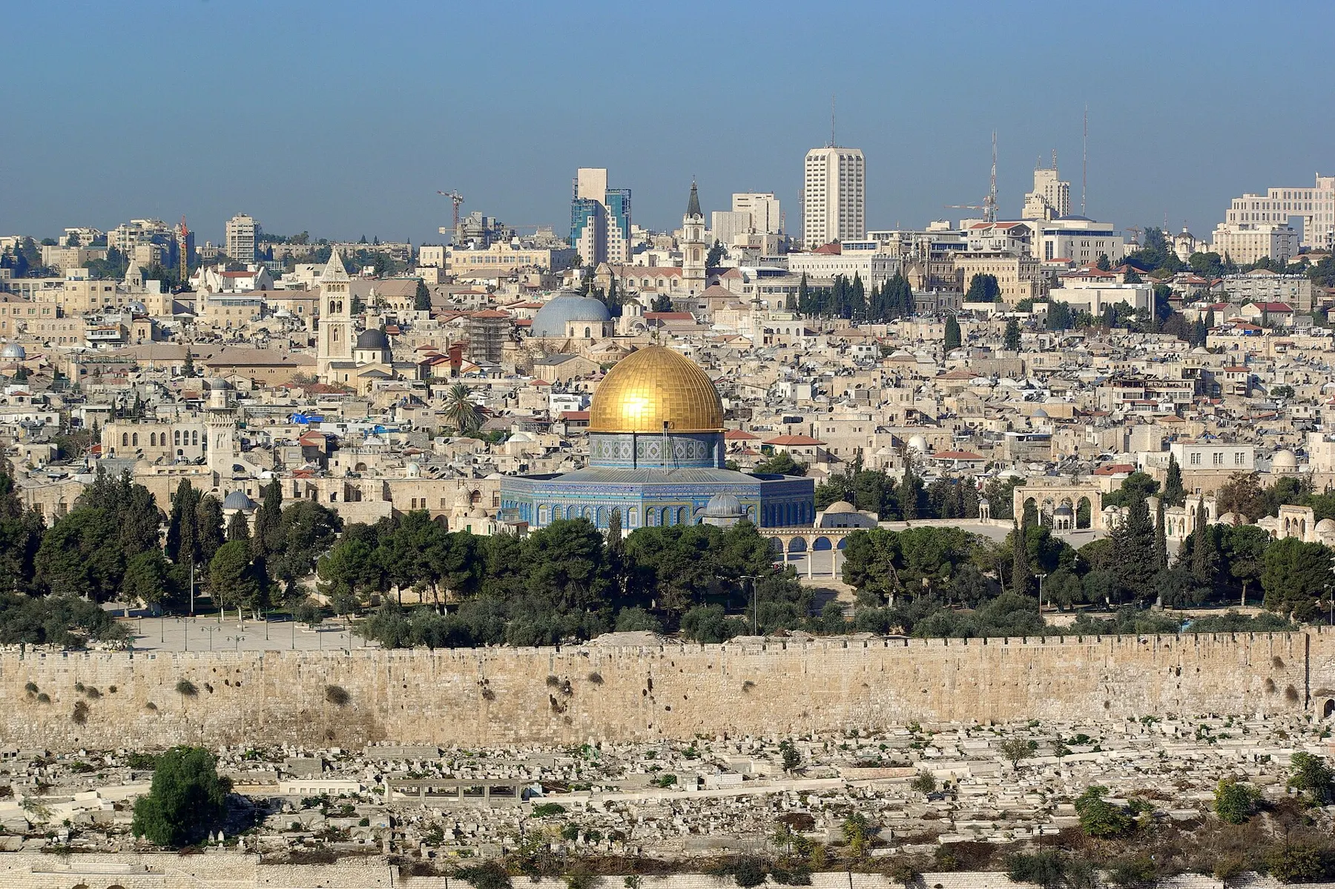
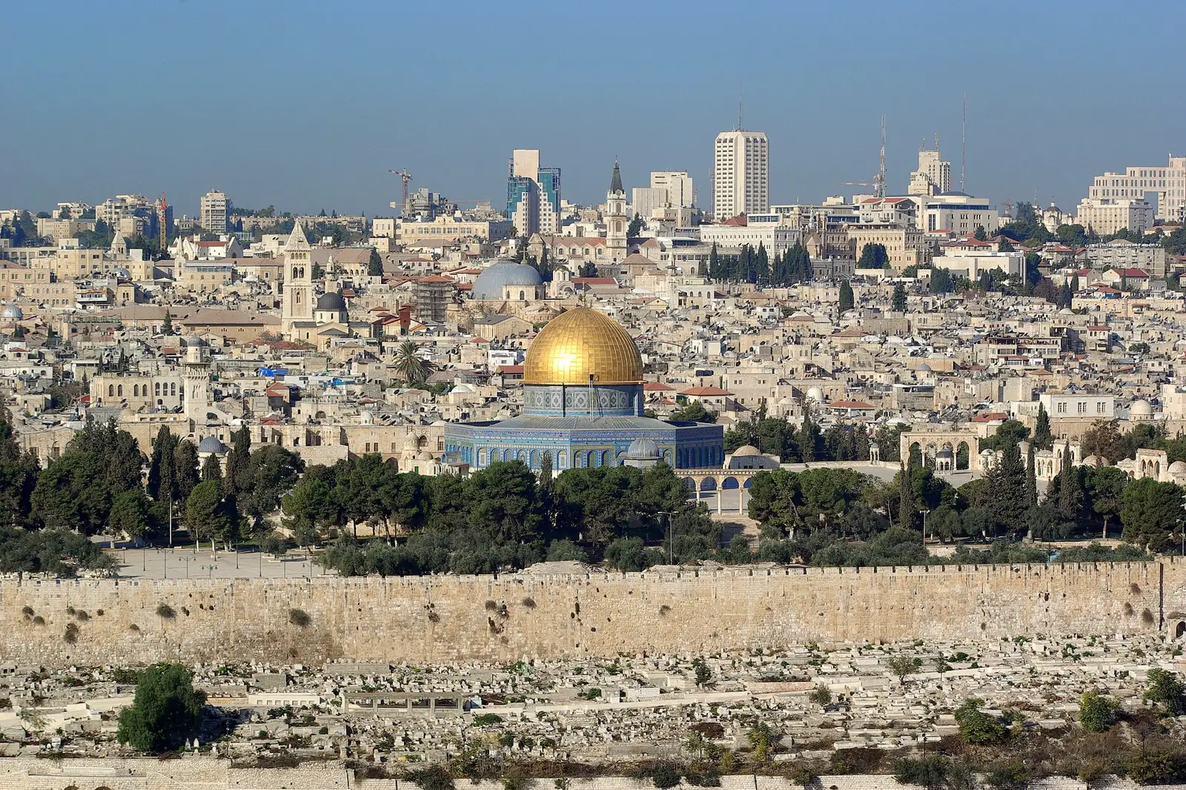
Changes

diff --git a/src/routes/index.tsx b/src/routes/index.tsx
@@ -129,7 +129,7 @@ function Home() {
     <main>
       <section className="relative mx-auto max-w-6xl px-4 pt-6">
         <div className="relative overflow-hidden rounded-3xl bg-navy">
-          <img src={hero} alt="Jerusalem's Old City and the Dome of the Rock seen from the Mount of Olives" width={1800} height={1200} fetchPriority="high" className="absolute inset-0 h-full w-full object-cover" />
+          <img src={hero} alt="Jerusalem's Old City and the Dome of the Rock seen from the Mount of Olives" width={1600} height={1066} fetchPriority="high" className="absolute inset-0 h-full w-full object-cover" />
           <div className="absolute inset-0 bg-gradient-to-r from-navy/90 via-navy/60 to-navy/10" aria-hidden />
           <div className="relative max-w-2xl px-6 py-16 text-navy-foreground md:px-12 md:py-24">
             <p className="text-xs font-semibold uppercase tracking-[0.14em] opacity-85">Plan your trip to Israel</p>

diff --git a/docs/BUILD_STATUS.md b/docs/BUILD_STATUS.md
@@ -61,7 +61,7 @@ Replaces the earlier three-page scope with a full tourism-portal structure. Stil
 
 ## Homepage visual redesign (16 Oct 2026)
 - Homepage rebuilt as photo-led portal: full-bleed Jerusalem hero with overlay CTAs and six-category quick nav; each of the six service sections has a large feature photo (text on gradient overlay + hub CTA) beside/above smaller photo cards that are full internal links; popular destinations are photo cards. Hover zoom disabled under prefers-reduced-motion. No provider data, prices, booking behaviour or routes changed.
-- Images stored in `src/assets/home/` as WebP (≤1200–1400px, ~100–230 KB each). Hero is the existing Jerusalem image (eager, high priority); all others lazy.
+- Images stored in `src/assets/home/` as WebP (≤1200–1400px, ~100–230 KB each). Hero is the Jerusalem Old City photo (eager, high priority); all others lazy.
 - Named-place photos (Wikimedia Commons, location verified by file title/visual review):
   - tel-aviv-coast — "PikiWiki Israel 58105 jaffa - old city.jpg", Ariel Manor, CC BY 2.5 (Tel Aviv shoreline seen from Jaffa)
   - tiberias-lake — "Tiberias from the Sea of Galilee (5809646279).jpg", Ian Scott, CC BY-SA 2.0
@@ -74,5 +74,5 @@ Replaces the earlier three-page scope with a full tourism-portal structure. Stil
   - caesarea-aqueduct — "125359 caesarea national park PikiWiki Israel.jpg", Zeev Stein, CC BY 2.5
   - caesarea-theatre — "Caesarea maritima BW 4.JPG", Berthold Werner, public domain
   - Generic category illustrations (AI-generated, alt text marks them illustrative, no named property/company): hotel-room, airport-pickup, guided-tour, road-trip.
-- Attribution implemented: collapsed "Photo credits" disclosure at the bottom of the homepage (data in `src/data/photoCredits.ts`). License URLs: CC BY 2.5 https://creativecommons.org/licenses/by/2.5/ ; CC BY 2.0 https://creativecommons.org/licenses/by/2.0/ ; CC BY-SA 2.0 https://creativecommons.org/licenses/by-sa/2.0/ ; CC BY-SA 4.0 https://creativecommons.org/licenses/by-sa/4.0/ . Source file pages: https://commons.wikimedia.org/wiki/File:PikiWiki_Israel_58105_jaffa_-_old_city.jpg ; https://commons.wikimedia.org/wiki/File:Tiberias_from_the_Sea_of_Galilee_(5809646279).jpg ; https://commons.wikimedia.org/wiki/File:Ben_Gurion_Airport_terminal_3_reception_hall.jpg ; https://commons.wikimedia.org/wiki/File:Palestine,_Bethlehem,_Church_of_the_Nativity_or_Birthplace_of_Jesus_(Square).jpg ; https://commons.wikimedia.org/wiki/File:Israel-2013-Aerial_13-Masada.jpg ; https://commons.wikimedia.org/wiki/File:Masada_Cable_Car_1438_(511094328).jpg ; https://commons.wikimedia.org/wiki/File:Israel_Aerial_Ropeway_Masada_BW_1.jpg ; https://commons.wikimedia.org/wiki/File:125342_caesarea_national_park_PikiWiki_Israel.jpg ; https://commons.wikimedia.org/wiki/File:125359_caesarea_national_park_PikiWiki_Israel.jpg ; https://commons.wikimedia.org/wiki/File:Caesarea_maritima_BW_4.JPG . All resized and converted to WebP. The former AI-created Jerusalem hero has been removed. Jerusalem hero and card variants (jerusalem-old-city-hero.webp 1800px, jerusalem-old-city.webp 900px) now use "Jerusalem Dome of the rock BW 14.JPG" by Berthold Werner, public domain, https://commons.wikimedia.org/wiki/File:Jerusalem_Dome_of_the_rock_BW_14.JPG (Commons metadata checked 16 Oct 2026). The accommodation feature image is now an AI-generated generic hotel room (hotel-room.webp) that replaces the rooftop-pool illustration; it shows no skyline or landmark.
+- Attribution implemented: collapsed "Photo credits" disclosure at the bottom of the homepage (data in `src/data/photoCredits.ts`). License URLs: CC BY 2.5 https://creativecommons.org/licenses/by/2.5/ ; CC BY 2.0 https://creativecommons.org/licenses/by/2.0/ ; CC BY-SA 2.0 https://creativecommons.org/licenses/by-sa/2.0/ ; CC BY-SA 4.0 https://creativecommons.org/licenses/by-sa/4.0/ . Source file pages: https://commons.wikimedia.org/wiki/File:PikiWiki_Israel_58105_jaffa_-_old_city.jpg ; https://commons.wikimedia.org/wiki/File:Tiberias_from_the_Sea_of_Galilee_(5809646279).jpg ; https://commons.wikimedia.org/wiki/File:Ben_Gurion_Airport_terminal_3_reception_hall.jpg ; https://commons.wikimedia.org/wiki/File:Palestine,_Bethlehem,_Church_of_the_Nativity_or_Birthplace_of_Jesus_(Square).jpg ; https://commons.wikimedia.org/wiki/File:Israel-2013-Aerial_13-Masada.jpg ; https://commons.wikimedia.org/wiki/File:Masada_Cable_Car_1438_(511094328).jpg ; https://commons.wikimedia.org/wiki/File:Israel_Aerial_Ropeway_Masada_BW_1.jpg ; https://commons.wikimedia.org/wiki/File:125342_caesarea_national_park_PikiWiki_Israel.jpg ; https://commons.wikimedia.org/wiki/File:125359_caesarea_national_park_PikiWiki_Israel.jpg ; https://commons.wikimedia.org/wiki/File:Caesarea_maritima_BW_4.JPG . All resized and converted to WebP. The former AI-created Jerusalem hero has been removed. Jerusalem hero and card variants (jerusalem-old-city-hero.webp 1600px, jerusalem-old-city.webp 900px) now use "Jerusalem Dome of the rock BW 14.JPG" by Berthold Werner, public domain, https://commons.wikimedia.org/wiki/File:Jerusalem_Dome_of_the_rock_BW_14.JPG (Commons metadata checked 16 Oct 2026). The accommodation feature image is now an AI-generated generic hotel room (hotel-room.webp) that replaces the rooftop-pool illustration; it shows no skyline or landmark.
 - Validation: browser at 1280px and 390px — 26/26 homepage images loaded (naturalWidth>0), horizontal overflow 0, all 16 internal homepage link targets returned 200; whole page scrolled and screenshots reviewed (screenshots/home-desktop-v2.png, home-mobile-v2.png). Noindex unchanged; nothing published.
